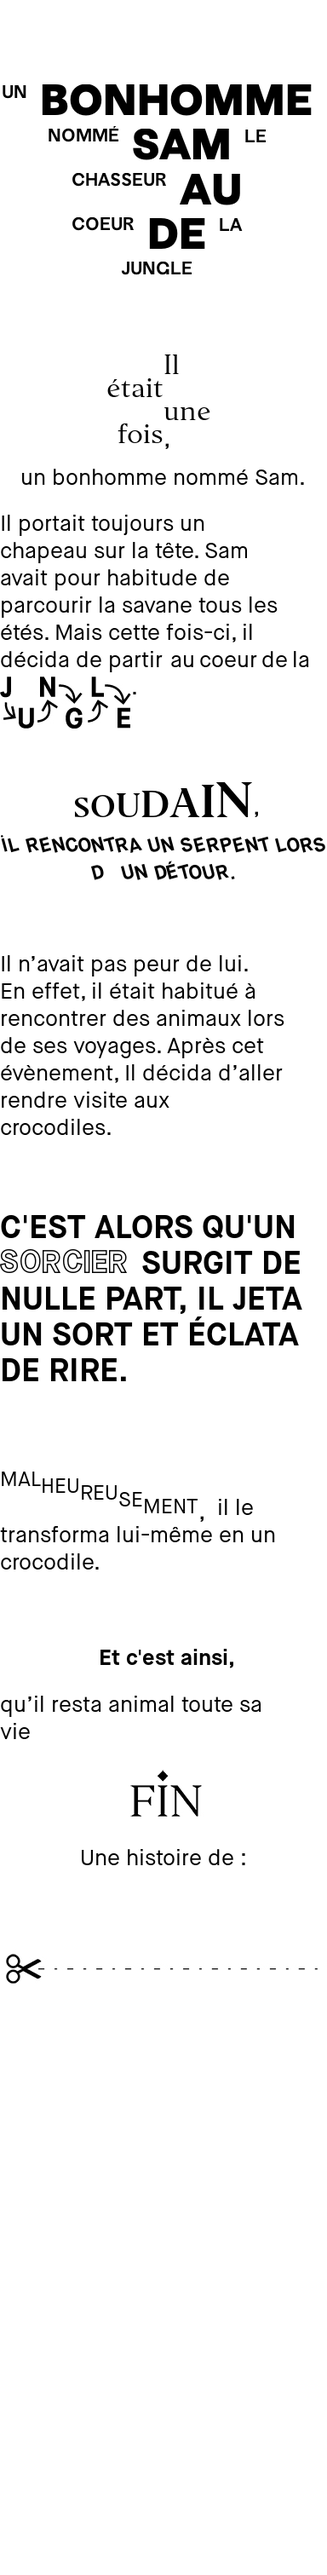
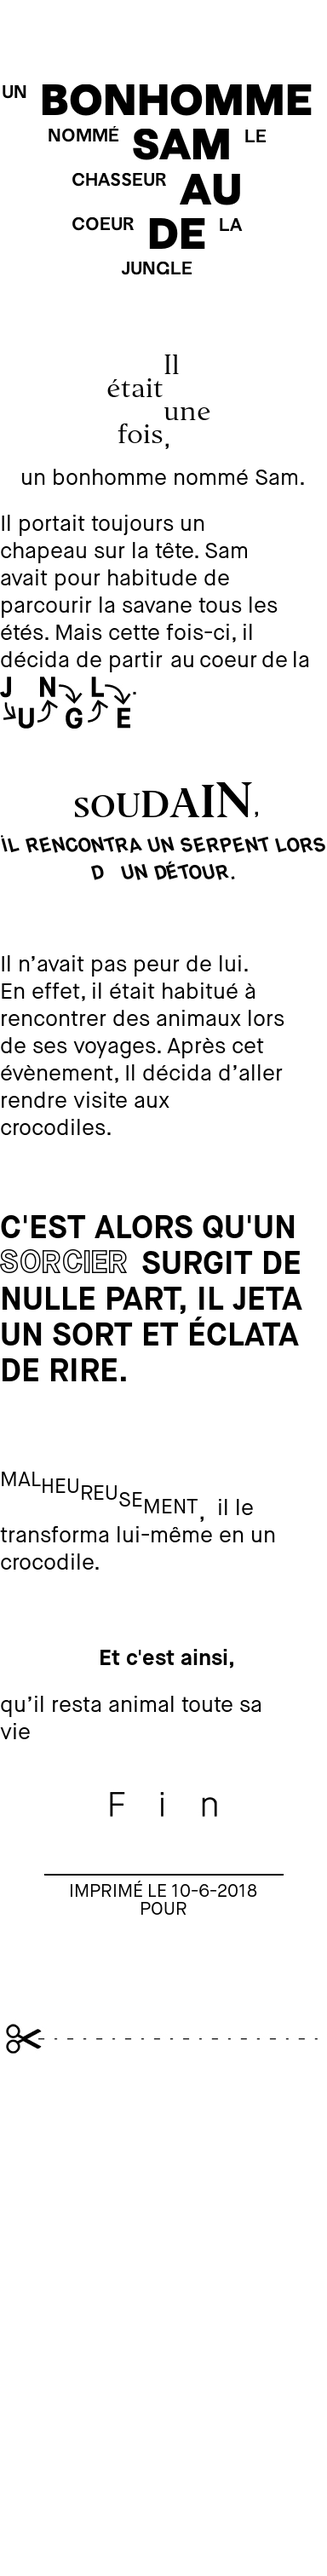
feat(story) : add date and update written by

diff --git a/storydesign.py b/storydesign.py
@@ -6,6 +6,7 @@ import textwrap
 import sys
 import effects
 from random import randint
+import datetime
 
 if sys.version[0] == '2':
     reload(sys)
@@ -342,13 +343,28 @@ class StoryDesign():
         img_end_height = effects.add_image("assets/img/fin0"+ str(self.end_random) +".jpg", True, top_end, img)
         top_end += img_end_height
         
+        # draw end line
+        top_end += 50
+        line_width = 280
+        line_center = (self.width - line_width) / 2
+        context.line((line_center , top_end,  line_center + line_width, top_end), "#000", 2) # line
+        
         # written by
-        top_end += 20
-        sentence = "Une histoire de :"
-        sentence_width, sentence_height = text_maison_neue_book.getsize(sentence) # get text width
+        text_maison_neue_book_written = ImageFont.truetype(maison_neue_book, self.font_size - 5, encoding="unic")
+        
+        now = datetime.datetime.now()
+        date = "Imprimé le ".decode("utf-8").upper() + "%d" % now.day + "-%d" % now.month + "-%d" % now.year
+        top_end += 10
+        date_width, date_height = text_maison_neue_book_written.getsize(date) # get text width
+        date_left = (self.width - date_width) / 2
+        context.multiline_text((date_left,top_end), date, fill=self.text_color, font=text_maison_neue_book_written)
+        
+        top_end += 2 * spacing / 3
+        sentence = "Pour".upper()
+        sentence_width, sentence_height = text_maison_neue_book_written.getsize(sentence) # get text width
         sentence_left = (self.width - sentence_width) / 2
-        context.multiline_text((sentence_left,top_end), sentence, fill=self.text_color, font=text_maison_neue_book)
-        top_end += 80
+        context.multiline_text((sentence_left,top_end), sentence, fill=self.text_color, font=text_maison_neue_book_written)
+        top_end += 100
 
         # cut
         img_cut_height = effects.add_image("assets/img/cut.jpg", True, top_end, img)

diff --git a/effects.py b/effects.py
@@ -201,7 +201,6 @@ def two_fonts_title(width, title, regular_font, bold_font, spacing, text_color, 
 def center_title(width, line_words, text_proto_regular, text_proto_bold, top, text_color, context):
     
     line_left = 0
-    print line_words
     for index, word in enumerate(line_words):
         if index % 2 == 0:
             word_width, word_height = text_proto_regular.getsize(word)
